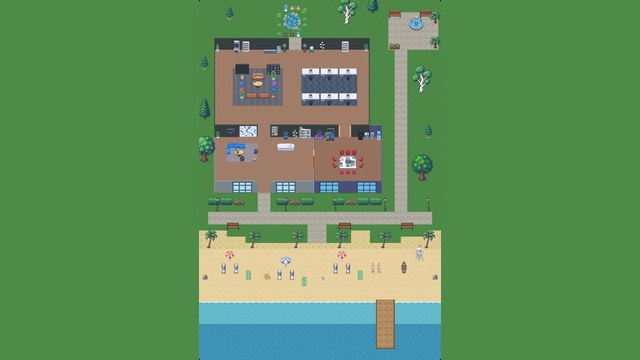
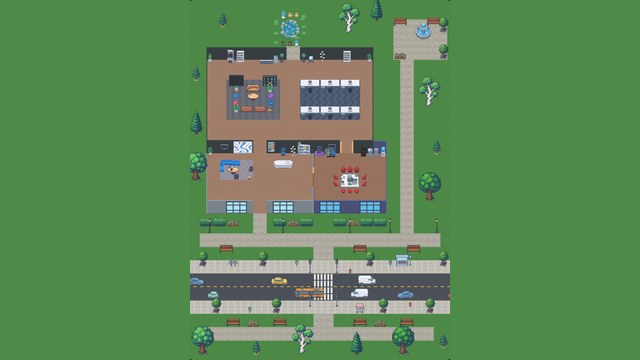
Estudio en una calle de ciudad: calzada con tráfico animado en los dos sentidos, aceras, paso de peatones, mobiliario urbano y un parque enfrente

Changed region(s): [[0.2812, 0.0, 0.7188, 1.0]]

diff --git a/src/VivoScene.tsx b/src/VivoScene.tsx
@@ -4,7 +4,7 @@ import { floorMaterial, playStep } from './footsteps';
 import type { PointerEvent as ReactPointerEvent, ReactNode } from 'react';
 import type { EditItem, FocusRoom, OfficeObject, Participant, Facing } from './types';
 import './scene.css';
-import { AREAS, TILE, WORLD } from '../shared/vivo-map.js';
+import { AREAS, TILE, TRAFFIC, WORLD } from '../shared/vivo-map.js';
 import { DOORWAYS, WALLS } from '../shared/vivo-geometry.js';
 import { getOfficeSeats } from '../shared/office-seats.js';
 import { asMapObject, baseAsEditorObject, catalogEntry, effectiveBaseObjects, type Overrides } from '../shared/office-objects.js';
@@ -91,7 +91,7 @@ function BaseObject({ object, selected, editing, onSelectObject, onGrab }: { obj
 /** Static layers: floors in area depth order, then walls, doorways and furniture sorted with the avatars. */
 const AREA_FLOORS = [...AREAS].sort((a, b) => a.depth - b.depth);
 /** Outdoor ground touching the edge of the map (the sea, the sand) carries on beyond it, so a beach ends in open sea. */
-const OUTER_GROUND = AREA_FLOORS.filter(area => area.parent && !area.walls && area.type === 'Public' && /^(Sand|Dune|Shore|Water)$/.test(area.floor)).flatMap(area => {
+const OUTER_GROUND = AREA_FLOORS.filter(area => area.parent && !area.walls && area.type === 'Public' && /^(Sand|Dune|Shore|Water|Road|Sidewalk)$/.test(area.floor)).flatMap(area => {
   const far = Math.max(WORLD.width, WORLD.height) * 2, x = area.x * TILE, y = area.y * TILE, w = area.w * TILE, h = area.h * TILE;
   const left = area.x === 0, right = area.x + area.w === WORLD.cols, bottom = area.y + area.h === WORLD.rows;
   const out: { id: string; floor: string; floorColor: string; x: number; y: number; w: number; h: number }[] = [];
@@ -103,7 +103,7 @@ const OUTER_GROUND = AREA_FLOORS.filter(area => area.parent && !area.walls && ar
   return out;
 });
 /** Outdoor ground keeps its colour on the minimap. */
-const MINIMAP_GROUND: Record<string, string> = { Sand: '#cdb88a', Dune: '#bfae7d', Pier: '#8a6a4a', Shore: '#9fd0d8', Water: '#3f8fb0', StonePath: '#8f8b82' };
+const MINIMAP_GROUND: Record<string, string> = { Sand: '#cdb88a', Dune: '#bfae7d', Pier: '#8a6a4a', Shore: '#9fd0d8', Water: '#3f8fb0', StonePath: '#8f8b82', Road: '#4b4f57', Sidewalk: '#bdbab3' };
 /** Tall north walls are drawn over the tiles behind them; a click on one means the floor right in front of it. */
 const NORTH_WALLS = WALLS.filter(wall => !wall.open && (wall.side === 'n' || wall.side === 'nw' || wall.side === 'ne'));
 function inFrontOfWall(point: Point): Tile | null {
@@ -162,6 +162,28 @@ function Ghost({ item, tile }: { item: EditItem; tile: GhostTile }) {
 }
 
 /** A person in the simplified view: a round badge with their initial under the nameplate, constant on screen. */
+/** Vehicle sprites (side view, facing right) and their size in pixels. */
+export const VEHICLES: Record<string, { w: number; h: number }> = { 'car-red': { w: 72, h: 44 }, 'car-blue': { w: 76, h: 44 }, 'car-taxi': { w: 76, h: 46 }, 'car-green': { w: 64, h: 42 }, 'van-white': { w: 84, h: 52 }, 'city-bus': { w: 140, h: 64 } };
+/** Cars driving along the street, from beyond one edge of the map to beyond the other. Decorative: nobody can be hit,
+    because the road itself cannot be walked on except at the crossing. */
+function Traffic({ still }: { still: boolean }) {
+  const margin = 400, distance = WORLD.width + margin * 2;
+  return <g pointerEvents="none" className="scene-traffic">{TRAFFIC.flatMap((lane, laneIndex) => {
+    const duration = distance / lane.speed;
+    return lane.vehicles.map((kind, index) => {
+      const size = VEHICLES[kind] ?? { w: 72, h: 44 };
+      const y = (lane.row + 1) * TILE - size.h - 9; // wheels inside the lane, clear of the centre line and the kerb
+      const offset = (index * duration) / lane.vehicles.length; // spread evenly over the loop, so cars in a lane never overlap
+      const from = lane.direction > 0 ? -margin : WORLD.width + margin, to = lane.direction > 0 ? WORLD.width + margin : -margin;
+      const image = <image className="pixel-resource" href={`/assets/pixel/vehicles/${kind}.png`} width={size.w} height={size.h} x={-size.w / 2} y={0} transform={lane.direction < 0 ? 'scale(-1 1)' : undefined} />;
+      if (still) return <g key={`${laneIndex}-${index}`} transform={`translate(${((index + .5) * WORLD.width) / lane.vehicles.length} ${y})`}>{image}</g>;
+      return <g key={`${laneIndex}-${index}`} transform={`translate(${from} ${y})`}>
+        {image}
+        <animateTransform attributeName="transform" type="translate" from={`${from} ${y}`} to={`${to} ${y}`} dur={`${duration}s`} begin={`${-((offset + laneIndex * 3.7) % duration)}s`} repeatCount="indefinite" />
+      </g>;
+    });
+  })}</g>;
+}
 function SimpleAvatar({ person, self, x, y, scale }: { person: Participant; self: boolean; x: number; y: number; scale: number }) {
   const k = 1 / scale, name = self ? `${person.name}` : person.name, width = (name.length * 6.4 + 26) * k;
   return <g className="scene-avatar scene-simple-avatar" transform={`translate(${x} ${y})`} shapeRendering="auto">
@@ -271,6 +293,7 @@ export default function VivoScene({ participants, selfId, objects, zoom, simplif
   const scale = clamp(pinned?.zoom ?? zoom, MIN_ZOOM, 4);
   // Zoomed out (or on request) the office shows only floors, walls and people, as the reference's simplified view.
   const simpleView = (simplified || scale < SIMPLE_BELOW) && !editKind && !editorOpen;
+  const reducedMotion = useMemo(() => { try { return matchMedia('(prefers-reduced-motion: reduce)').matches; } catch { return false; } }, []);
   const viewWidth = viewport.width / scale, viewHeight = viewport.height / scale;
   const viewX = camera.x - viewWidth / 2, viewY = camera.y - viewHeight / 2;
 
@@ -587,6 +610,7 @@ export default function VivoScene({ participants, selfId, objects, zoom, simplif
       </g>
       {editingMode && <g pointerEvents="none"><rect x={-WORLD.width} y={-WORLD.height} width={WORLD.width * 3} height={WORLD.height * 3} fill="#0b1020" fillOpacity=".28" /><rect x="0" y="0" width={WORLD.width} height={WORLD.height} fill="url(#edit-grid)" /></g>}
       {destination && <g pointerEvents="none" transform={`translate(${destination.tx * TILE} ${destination.ty * TILE})`}><rect x="2" y="2" width="28" height="28" rx="3" fill="none" stroke="#ffffff" strokeOpacity=".9" strokeWidth="2" /></g>}
+      {TRAFFIC.length > 0 && !simpleView && <Traffic still={reducedMotion} />}
       <g shapeRendering="crispEdges">{layers.map(layer => <g key={layer.key}>{layer.node}</g>)}</g>
       {simpleView && <SimpleAreaIcons scale={scale} />}
       {nearInteractive && <g pointerEvents="none" className="scene-interactive"><rect x={nearInteractive.object.x - nearInteractive.object.originX - 2} y={nearInteractive.object.y - nearInteractive.object.originY - 2} width={nearInteractive.object.w + 4} height={nearInteractive.object.h + 4} rx="3" fill="#f5c84222" stroke="#f5c842" strokeWidth="2" /></g>}

diff --git a/shared/maps/index.js b/shared/maps/index.js
@@ -40,8 +40,10 @@ const every = (from, to, step, make) => { const out = []; for (let v = from; v <
 const sunSpot = (x, y, color) => [['beach-umbrella', color, x, y], ['sun-lounger', 'white', x - 1, y + 2], ['sun-lounger', 'white', x + 1, y + 2], ['beach-towel', 'yellow', x + 3, y + 2]];
 
 // ---------------------------------------------------------------------------------------------------------------
-// Studio: the lobby, the team hall and the media room by the sea, with a garden walk down to the beach.
-const STUDIO_COLS = 40, STUDIO_ROWS = 58, SAND = 39;
+// Studio: the lobby, the team hall and the media room on a city street, with a garden walk down to the pavement,
+// a zebra crossing, traffic in both directions and a small park across the road.
+const STUDIO_COLS = 40, STUDIO_ROWS = 52;
+const ROAD = 40; // first row of the road
 const studio = composeMap(vivo, {
   cols: STUDIO_COLS, rows: STUDIO_ROWS, spawn: { tx: 10, ty: 27 },
   stamps: [
@@ -50,31 +52,50 @@ const studio = composeMap(vivo, {
   ],
   areas: [
     path(10, 31, 2, 4), // from the lobby door
-    path(2, 34, 36, 2), // the promenade
+    path(2, 34, 36, 2), // the garden walk
     path(32, 8, 2, 26), // along the east side of the building
     path(15, 6, 2, 2), // from the hall's garden door to the pond
     ground('Plaza', 'StonePath', 'Grey', 31, 2, 8, 6),
-    path(18, 36, 3, 3), // down to the sand
-    ...beach(STUDIO_COLS, SAND, STUDIO_ROWS, [[17, 22]]),
-    ...pier(29, STUDIO_ROWS - 10, 8),
+    path(19, 36, 3, 2), // down to the pavement
+    // The street: pavement, kerb, two lanes with a dashed centre line, kerb and pavement again.
+    ground('Acera', 'Sidewalk', 'Grey', 0, ROAD - 2, STUDIO_COLS, 1),
+    ground('Acera', 'Sidewalk', 'CurbBottom', 0, ROAD - 1, STUDIO_COLS, 1),
+    ground('Calle', 'Road', 'Asphalt', 0, ROAD, STUDIO_COLS, 4, { blocked: true }),
+    ground('Calle', 'Road', 'Line', 0, ROAD + 1, STUDIO_COLS, 1, { blocked: true, depth: 3 }),
+    ground('Paso de peatones', 'Road', 'Zebra', 19, ROAD, 3, 4, { depth: 4 }),
+    ground('Acera', 'Sidewalk', 'CurbTop', 0, ROAD + 4, STUDIO_COLS, 1),
+    ground('Acera', 'Sidewalk', 'Grey', 0, ROAD + 5, STUDIO_COLS, 1),
+    // The park across the street.
+    path(19, ROAD + 6, 3, 3),
+    path(3, ROAD + 8, 34, 2),
   ],
   objects: [
-    // Garden along the promenade: hedges with gaps, flower beds, benches and lamps.
+    // Garden along the walk: hedges with gaps, flower beds, benches and lamps.
     ['hedge', 'green', 2, 32], ['hedge', 'green', 4, 32], ['flower-bed', 'pink', 6, 32], ['hedge', 'green', 13, 32], ['flower-bed', 'pink', 15, 32], ['hedge', 'green', 17, 32], ['hedge', 'green', 22, 32], ['flower-bed', 'pink', 24, 32], ['hedge', 'green', 26, 32], ['hedge', 'green', 28, 32],
-    ['park-bench', 'wood', 5, 36], ['park-bench', 'wood', 23, 36], ['park-bench', 'wood', 33, 36],
-    ...[3, 14, 22, 30, 37].map((x) => ['street-lamp', 'black', x, 33]),
-    // The plaza with a fountain, benches and palms.
+    ['park-bench', 'wood', 5, 36], ['park-bench', 'wood', 25, 36], ['park-bench', 'wood', 33, 36],
+    ...[3, 14, 24, 30, 37].map((x) => ['street-lamp', 'black', x, 33]),
+    // The plaza with a fountain, benches and greenery.
     ['fountain', 'stone', 34, 3], ['park-bench', 'wood', 31, 2], ['park-bench', 'wood', 36, 2],
-    ['palm-tree-short', 'green', 38, 3], ['palm-tree-short', 'green', 38, 7], ['flower-bed', 'pink', 31, 7],
+    ['street-tree', 'green', 38, 3], ['street-tree', 'green', 38, 7], ['flower-bed', 'pink', 31, 7],
     // Trees around the building.
     ['pine-tree-small', 'green', 1, 10], ['pine-tree-large', 'green', 1, 18], ['maple-tree', 'lightgreen', 1, 25], ['birch-tree', 'lightgreen', 36, 14], ['pine-tree-small', 'green', 37, 21], ['maple-tree', 'green', 36, 28],
     ['pine-tree-small', 'green', 5, 2], ['birch-tree', 'lightgreen', 24, 3], ['pine-tree-large', 'green', 28, 1],
-    // The beach: palms, umbrellas, loungers and the fun bits.
-    ...every(2, 37, 7, (x) => [['palm-tree', 'green', x, SAND]]),
-    ...sunSpot(5, SAND + 2, 'red'), ...sunSpot(14, SAND + 3, 'blue'), ...sunSpot(23, SAND + 2, 'red'),
-    ['lifeguard-tower', 'white', 35, SAND + 2], ['surfboard', 'white', 28, SAND + 4], ['surfboard', 'white', 29, SAND + 4],
-    ['sandcastle', 'sand', 11, SAND + 5], ['beach-ball', 'red', 20, SAND + 5], ['beach-rocks', 'grey', 1, SAND + 5], ['beach-rocks', 'grey', 38, SAND + 5],
-    ['rowboat', 'wood', 33, SAND + 3],
+    // Near pavement: street trees, lamps, the bus stop, bins, bikes, a hydrant and traffic lights at the crossing.
+    ['street-tree', 'green', 2, ROAD - 2], ['street-tree', 'green', 11, ROAD - 2], ['street-tree', 'green', 27, ROAD - 2], ['street-tree', 'green', 38, ROAD - 2],
+    ['bus-stop', 'glass', 32, ROAD - 2], ['bike-rack', 'grey', 6, ROAD - 2], ['trash-bin', 'green', 16, ROAD - 2], ['trash-bin', 'green', 30, ROAD - 2],
+    ['fire-hydrant', 'red', 24, ROAD - 1], ['traffic-light', 'black', 18, ROAD - 1], ['traffic-light', 'black', 22, ROAD - 1],
+    // Far pavement.
+    ['traffic-light', 'black', 18, ROAD + 4], ['traffic-light', 'black', 22, ROAD + 4],
+    ['street-tree', 'green', 4, ROAD + 5], ['street-tree', 'green', 13, ROAD + 5], ['street-tree', 'green', 29, ROAD + 5], ['street-tree', 'green', 36, ROAD + 5],
+    ['food-cart', 'red', 25, ROAD + 5], ['trash-bin', 'green', 9, ROAD + 5], ['fire-hydrant', 'red', 33, ROAD + 4],
+    // The park.
+    ['park-bench', 'wood', 6, ROAD + 7], ['park-bench', 'wood', 13, ROAD + 7], ['park-bench', 'wood', 25, ROAD + 7], ['park-bench', 'wood', 32, ROAD + 7],
+    ['flower-bed', 'pink', 9, ROAD + 7], ['flower-bed', 'pink', 28, ROAD + 7],
+    ['maple-tree', 'lightgreen', 2, ROAD + 11], ['pine-tree-small', 'green', 10, ROAD + 11], ['birch-tree', 'lightgreen', 17, ROAD + 11], ['pine-tree-large', 'green', 25, ROAD + 11], ['maple-tree', 'green', 32, ROAD + 11], ['pine-tree-small', 'green', 38, ROAD + 10],
+  ],
+  traffic: [
+    { row: ROAD + 1, direction: 1, speed: 80, vehicles: ['car-red', 'car-taxi', 'van-white', 'car-green', 'city-bus', 'car-blue'] },
+    { row: ROAD + 3, direction: -1, speed: 70, vehicles: ['car-blue', 'city-bus', 'car-green', 'car-taxi', 'car-red', 'van-white'] },
   ],
 });
 

diff --git a/src/catalogNames.ts b/src/catalogNames.ts
@@ -11,6 +11,7 @@ export const CATEGORIES: { id: string; es: string; en: string; families: string[
   { id: 'kitchen', es: 'Cocina y café', en: 'Kitchen and coffee', families: ['Coffee', 'Fridge', 'Kitchen Counters', 'Hydration'] },
   { id: 'plants', es: 'Plantas y exterior', en: 'Plants and outdoors', families: ['Room Plant', 'Desk Plant', 'Ground Plant', 'Tree', 'Pond', 'Garden', 'Garden Seat', 'Fountain'] },
   { id: 'beach', es: 'Playa', en: 'Beach', families: ['Palm Tree', 'Beach Umbrella', 'Beach Seat', 'Beach Decor'] },
+  { id: 'city', es: 'Ciudad', en: 'City', families: ['Street'] },
   { id: 'lighting', es: 'Iluminación', en: 'Lighting', families: ['Floor Lamp', 'Street Lamp'] },
   { id: 'decor', es: 'Decoración', en: 'Decoration', families: ['Painting', 'Wall Cover', 'Wall Clock', 'Globe', 'Small Fishtank', 'Duck'] },
   { id: 'stationery', es: 'Papelería y oficina', en: 'Stationery and office', families: ['Book', 'Document', 'Handwritten Notes', 'Easel'] },
@@ -101,12 +102,19 @@ const NAMES: Record<string, [string, string]> = {
   'park-bench': ['Banco', 'Park bench'],
   'street-lamp': ['Farola', 'Street lamp'],
   'fountain': ['Fuente', 'Fountain'],
+  'bus-stop': ['Parada de autobús', 'Bus stop'],
+  'traffic-light': ['Semáforo', 'Traffic light'],
+  'fire-hydrant': ['Boca de incendio', 'Fire hydrant'],
+  'bike-rack': ['Aparcabicis', 'Bike rack'],
+  'trash-bin': ['Papelera', 'Trash bin'],
+  'street-tree': ['Árbol de calle', 'Street tree'],
+  'food-cart': ['Carrito de comida', 'Food cart'],
 };
 const COLORS: Record<string, [string, string]> = {
   purple: ['morado', 'purple'], black: ['negro', 'black'], white: ['blanco', 'white'], yellow: ['amarillo', 'yellow'],
   lightcoffee: ['madera clara', 'light wood'], coffee: ['madera', 'wood'], brown: ['marrón', 'brown'], blue: ['azul', 'blue'],
   pink: ['rosa', 'pink'], green: ['verde', 'green'], lightgreen: ['verde claro', 'light green'], grey: ['gris', 'grey'],
-  teal: ['turquesa', 'teal'], sand: ['arena', 'sand'], wood: ['madera', 'wood'], stone: ['piedra', 'stone'], lightteal: ['turquesa claro', 'light teal'], orange: ['naranja', 'orange'], lightblue: ['azul claro', 'light blue'], red: ['rojo', 'red'],
+  teal: ['turquesa', 'teal'], sand: ['arena', 'sand'], glass: ['cristal', 'glass'], wood: ['madera', 'wood'], stone: ['piedra', 'stone'], lightteal: ['turquesa claro', 'light teal'], orange: ['naranja', 'orange'], lightblue: ['azul claro', 'light blue'], red: ['rojo', 'red'],
 };
 const FACINGS: Record<string, [string, string]> = { Down: ['de frente', 'facing front'], Up: ['de espaldas', 'facing back'], Left: ['hacia la izquierda', 'facing left'], Right: ['hacia la derecha', 'facing right'] };
 

diff --git a/src/sprites/floors.tsx b/src/sprites/floors.tsx
@@ -169,6 +169,37 @@ function pier({ left = false, right = false, end = false } = {}): PixelSprite {
   }
   return { w: 32, h: 32, palette: { b: '#c39a6b', c: '#b38a5d', g: '#6e5038', n: '#7b5c43', k: '#5a3f2c', e: '#3f2b1f', p: '#6b4a33', q: '#9a7350' }, rows };
 }
+/** Asphalt; `line` paints the dashed centre line along the tile's bottom edge, `zebra` the crossing stripes. */
+function asphalt({ line = false, zebra = false } = {}): PixelSprite {
+  const rows: string[] = [];
+  for (let y = 0; y < 32; y++) {
+    let row = '';
+    for (let x = 0; x < 32; x++) {
+      const dash = line && y >= 29 && x % 32 < 18 && x % 32 >= 2;
+      const stripe = zebra && x % 16 >= 3 && x % 16 < 12 && y >= 2 && y < 30;
+      const n = noise(x, y, 11);
+      row += dash ? 'y' : stripe ? (n > .9 ? 'z' : 'w') : n > .93 ? 'l' : n < .06 ? 'd' : 'b';
+    }
+    rows.push(row);
+  }
+  return { w: 32, h: 32, palette: { b: '#4b4f57', l: '#5a5e66', d: '#3f4249', y: '#f2c94c', w: '#e9e9e4', z: '#cfcfca' }, rows };
+}
+/** Sidewalk slabs; `curb` adds the kerb along the side that meets the road ('top' or 'bottom'). */
+function sidewalk(curb: '' | 'top' | 'bottom' = ''): PixelSprite {
+  const rows: string[] = [];
+  for (let y = 0; y < 32; y++) {
+    let row = '';
+    for (let x = 0; x < 32; x++) {
+      const kerb = (curb === 'bottom' && y >= 27) || (curb === 'top' && y < 5);
+      const kerbEdge = (curb === 'bottom' && y === 27) || (curb === 'top' && y === 4);
+      const kerbShade = (curb === 'bottom' && y >= 30) || (curb === 'top' && y < 2);
+      const joint = x % 16 === 15 || y % 16 === 15;
+      row += kerb ? (kerbEdge ? 'e' : kerbShade ? 's' : 'k') : joint ? 'j' : noise(Math.floor(x / 16), Math.floor(y / 16), 6) > .5 ? 'b' : 'c';
+    }
+    rows.push(row);
+  }
+  return { w: 32, h: 32, palette: { b: '#c9c6bf', c: '#c1beb6', j: '#a9a59d', k: '#b3b0a9', e: '#dedbd4', s: '#8d8a83' }, rows };
+}
 function cobbles(): PixelSprite {
   const rows: string[] = [];
   for (let y = 0; y < 32; y++) {
@@ -205,6 +236,12 @@ export const ORIGINAL_FLOOR_TILES: Record<string, PixelSprite> = {
   'Pier/EndLeft': pier({ left: true, end: true }),
   'Pier/EndRight': pier({ right: true, end: true }),
   'StonePath/Grey': cobbles(),
+  'Road/Asphalt': asphalt(),
+  'Road/Line': asphalt({ line: true }),
+  'Road/Zebra': asphalt({ zebra: true }),
+  'Sidewalk/Grey': sidewalk(),
+  'Sidewalk/CurbBottom': sidewalk('bottom'),
+  'Sidewalk/CurbTop': sidewalk('top'),
 };
 export const FLOOR_TILES: Record<string, PixelSprite> = { ...ORIGINAL_FLOOR_TILES, ...REFERENCE_FLOORS };
 export const floorKey = (texture: string, color: string) => `${texture}/${color}`;

diff --git a/site/index.html b/site/index.html
@@ -193,7 +193,7 @@
       <h2><span class="en">From a small studio to a campus</span><span class="es">Desde un estudio pequeño hasta un campus</span></h2>
       <p class="sub"><span class="en">Pick a map when you create a space. Every one is fully furnished and you can redecorate anything with the built-in editor.</span><span class="es">Elige un mapa al crear un espacio. Todos vienen amueblados y puedes redecorar lo que quieras con el editor integrado.</span></p>
       <div class="sizes">
-        <div class="size"><img src="assets/studio.jpg" alt="" loading="lazy" /><div><span class="people"><span class="en">up to 6</span><span class="es">hasta 6</span></span><b class="en">Studio</b><b class="es">Estudio</b><p class="en">By the sea: six desks, a meeting room, a garden walk, a fountain plaza and a beach with a pier.</p><p class="es">Frente al mar: seis escritorios, una sala de reuniones, jardín, plaza con fuente y playa con muelle.</p></div></div>
+        <div class="size"><img src="assets/studio.jpg" alt="" loading="lazy" /><div><span class="people"><span class="en">up to 6</span><span class="es">hasta 6</span></span><b class="en">Studio</b><b class="es">Estudio</b><p class="en">On a city street: six desks, a meeting room, a garden walk, a fountain plaza, passing traffic and a park across the road.</p><p class="es">En una calle de ciudad: seis escritorios, una sala de reuniones, jardín, plaza con fuente, tráfico y un parque enfrente.</p></div></div>
         <div class="size"><img src="assets/office.jpg" alt="" loading="lazy" /><div><span class="people"><span class="en">up to 10</span><span class="es">hasta 10</span></span><b class="en">Office</b><b class="es">Oficina</b><p class="en">Ten desks, five meeting rooms, four focus offices, a lounge and a garden.</p><p class="es">Diez escritorios, cinco salas de reunión, cuatro oficinas de concentración, sala de estar y jardín.</p></div></div>
         <div class="size"><img src="assets/campus.jpg" alt="" loading="lazy" /><div><span class="people"><span class="en">20 and more</span><span class="es">20 o más</span></span><b class="en">Campus</b><b class="es">Campus</b><p class="en">Two buildings joined by a promenade and a plaza: twenty desks, ten meeting rooms, eight focus offices and a long beach.</p><p class="es">Dos edificios unidos por un paseo y una plaza: veinte escritorios, diez salas de reunión, ocho oficinas de concentración y una playa larga.</p></div></div>
       </div>

diff --git a/shared/maps/compose.js b/shared/maps/compose.js
@@ -6,7 +6,7 @@ const TILE = 32;
 const inside = (rect, x, y) => x >= rect.x && x < rect.x + rect.w && y >= rect.y && y < rect.y + rect.h;
 const containsArea = (rect, area) => area.x >= rect.x && area.y >= rect.y && area.x + area.w <= rect.x + rect.w && area.y + area.h <= rect.y + rect.h;
 
-export function composeMap(base, { cols, rows, stamps, spawn, areas: extraAreas = [], objects: placements = [] }) {
+export function composeMap(base, { cols, rows, stamps, spawn, areas: extraAreas = [], objects: placements = [], traffic = [] }) {
   const root = { id: 'root', name: 'Public area', type: 'Public', parent: null, x: 0, y: 0, w: cols, h: rows, depth: 1, capacity: null, floor: 'NewStyleGrass', floorColor: 'Green', walls: null, doorways: [] };
   const areas = [root], objects = [], extras = [];
   const walled = base.AREAS.filter((area) => area.walls);
@@ -52,5 +52,5 @@ export function composeMap(base, { cols, rows, stamps, spawn, areas: extraAreas 
       x: tx * TILE + variant.offLeft + variant.originX, y: ty * TILE + variant.offTop + variant.originY,
       ...(variant.blocks.length ? { blocks: variant.blocks.map(([x, y]) => [tx + x, ty + y]) } : {}), ...(variant.seat.length ? { seat: variant.seat.map(([x, y]) => [tx + x, ty + y]) } : {}) });
   });
-  return { TILE, WORLD: Object.freeze({ cols, rows, width: cols * TILE, height: rows * TILE }), AREAS: areas, OBJECTS: objects, EXTRA_OBJECTS: extras, SPAWN_TILE: Object.freeze(spawn) };
+  return { TILE, WORLD: Object.freeze({ cols, rows, width: cols * TILE, height: rows * TILE }), AREAS: areas, OBJECTS: objects, EXTRA_OBJECTS: extras, SPAWN_TILE: Object.freeze(spawn), TRAFFIC: traffic };
 }

diff --git a/src/WorkspaceHome.tsx b/src/WorkspaceHome.tsx
@@ -6,7 +6,7 @@ import { createWorkspace, deleteWorkspace, fetchWorkspace, forgetWorkspace, know
 
 const THUMBNAIL: Record<Template, string> = { office: '/thumbnails/office.jpg', empty: '/thumbnails/empty.jpg' };
 const MAP_OPTIONS: { id: OfficeMap; name: string; detail: string }[] = [
-  { id: 'studio', name: 'Estudio', detail: 'Para equipos pequeños, frente al mar: 6 escritorios, una sala de reuniones, jardín, plaza con fuente y playa con muelle.' },
+  { id: 'studio', name: 'Estudio', detail: 'Para equipos pequeños, en una calle de ciudad: 6 escritorios, una sala de reuniones, jardín, plaza con fuente, tráfico y un parque enfrente.' },
   { id: 'vivo', name: 'Oficina', detail: 'La oficina principal con su decoración: 10 escritorios, 5 salas de reunión y 4 oficinas de concentración.' },
   { id: 'campus', name: 'Campus', detail: 'Para equipos grandes: dos edificios unidos por un paseo y una plaza, con 20 escritorios, 10 salas de reunión, 8 oficinas de concentración y una playa larga.' },
 ];

diff --git a/shared/catalog-extra.js b/shared/catalog-extra.js
@@ -22,4 +22,12 @@ export const EXTRA_CATALOG = Object.fromEntries([
   entry('park-bench', 'wood', 'Garden Seat', 64, 40, { cols: 2, seat: [[0, 0], [1, 0]] }),
   entry('street-lamp', 'black', 'Street Lamp', 24, 72, { blocks: [[0, 0]] }),
   entry('fountain', 'stone', 'Fountain', 96, 80, { cols: 3, rows: 2, blocks: [[0, 0], [1, 0], [2, 0], [0, 1], [1, 1], [2, 1]] }),
+  // Street furniture
+  entry('bus-stop', 'glass', 'Street', 80, 64, { cols: 3, blocks: [[0, 0], [2, 0]], seat: [[1, 0]] }),
+  entry('traffic-light', 'black', 'Street', 20, 72, { blocks: [[0, 0]] }),
+  entry('fire-hydrant', 'red', 'Street', 16, 22, { blocks: [[0, 0]] }),
+  entry('bike-rack', 'grey', 'Street', 64, 40, { cols: 2, blocks: [[0, 0], [1, 0]] }),
+  entry('trash-bin', 'green', 'Street', 20, 32, { blocks: [[0, 0]] }),
+  entry('street-tree', 'green', 'Street', 48, 80, { blocks: [[0, 0]] }),
+  entry('food-cart', 'red', 'Street', 56, 56, { cols: 2, blocks: [[0, 0], [1, 0]] }),
 ]);

diff --git a/src/footsteps.ts b/src/footsteps.ts
@@ -9,7 +9,7 @@ export function floorMaterial(point: { x: number; y: number }): Material {
   const tx = Math.floor(point.x / TILE), ty = Math.floor(point.y / TILE);
   const area = BY_DEPTH.find(candidate => tx >= candidate.x && tx < candidate.x + candidate.w && ty >= candidate.y && ty < candidate.y + candidate.h);
   const floor = area?.floor ?? 'NewStyleGrass';
-  return floor.startsWith('Carpet') ? 'carpet' : floor.includes('Grass') ? 'grass' : floor === 'Sand' || floor === 'Dune' ? 'sand' : floor === 'StonePath' ? 'stone' : 'wood';
+  return floor.startsWith('Carpet') ? 'carpet' : floor.includes('Grass') ? 'grass' : floor === 'Sand' || floor === 'Dune' ? 'sand' : floor === 'StonePath' || floor === 'Sidewalk' || floor === 'Road' ? 'stone' : 'wood';
 }
 
 /** Sound effects volume, 0 to 1 (0 silences them). */

diff --git a/src/sprites/assets.ts b/src/sprites/assets.ts
@@ -5,6 +5,13 @@ import { ROTATED_ASSETS } from './rotatedAssets';
 /** Generated pixel assets (PixelLab, see public/assets/pixel/objects/README.md) keyed by object kind, optionally by colour. */
 export const OBJECT_ASSETS: Record<string, string> = {
   // Outdoor and beach objects (PixelLab, project style)
+  'bus-stop/glass': 'bus-stop-glass.png',
+  'traffic-light/black': 'traffic-light-black.png',
+  'fire-hydrant/red': 'fire-hydrant-red.png',
+  'bike-rack/grey': 'bike-rack-grey.png',
+  'trash-bin/green': 'trash-bin-green.png',
+  'street-tree/green': 'street-tree-green.png',
+  'food-cart/red': 'food-cart-red.png',
   'rowboat/wood': 'rowboat-wood.png',
   'palm-tree/green': 'palm-tree-green.png',
   'palm-tree-short/green': 'palm-tree-short-green.png',

diff --git a/shared/vivo-map.js b/shared/vivo-map.js
@@ -11,3 +11,5 @@ export const AREAS = map.AREAS;
 export const OBJECTS = map.OBJECTS;
 export const EXTRA_OBJECTS = map.EXTRA_OBJECTS;
 export const SPAWN_TILE = map.SPAWN_TILE;
+/** Vehicles driving along a street: lanes with a row, a direction, a speed (pixels a second) and the vehicles in order. */
+export const TRAFFIC = map.TRAFFIC ?? [];

diff --git a/shared/vivo-map.d.ts b/shared/vivo-map.d.ts
@@ -8,3 +8,5 @@ export const OBJECTS: MapObject[];
 export const EXTRA_OBJECTS: MapObject[];
 export const SPAWN_TILE: { readonly tx: number; readonly ty: number };
 export const MAP_ID: string;
+export type TrafficLane = { row: number; direction: 1 | -1; speed: number; vehicles: string[] };
+export const TRAFFIC: TrafficLane[];
